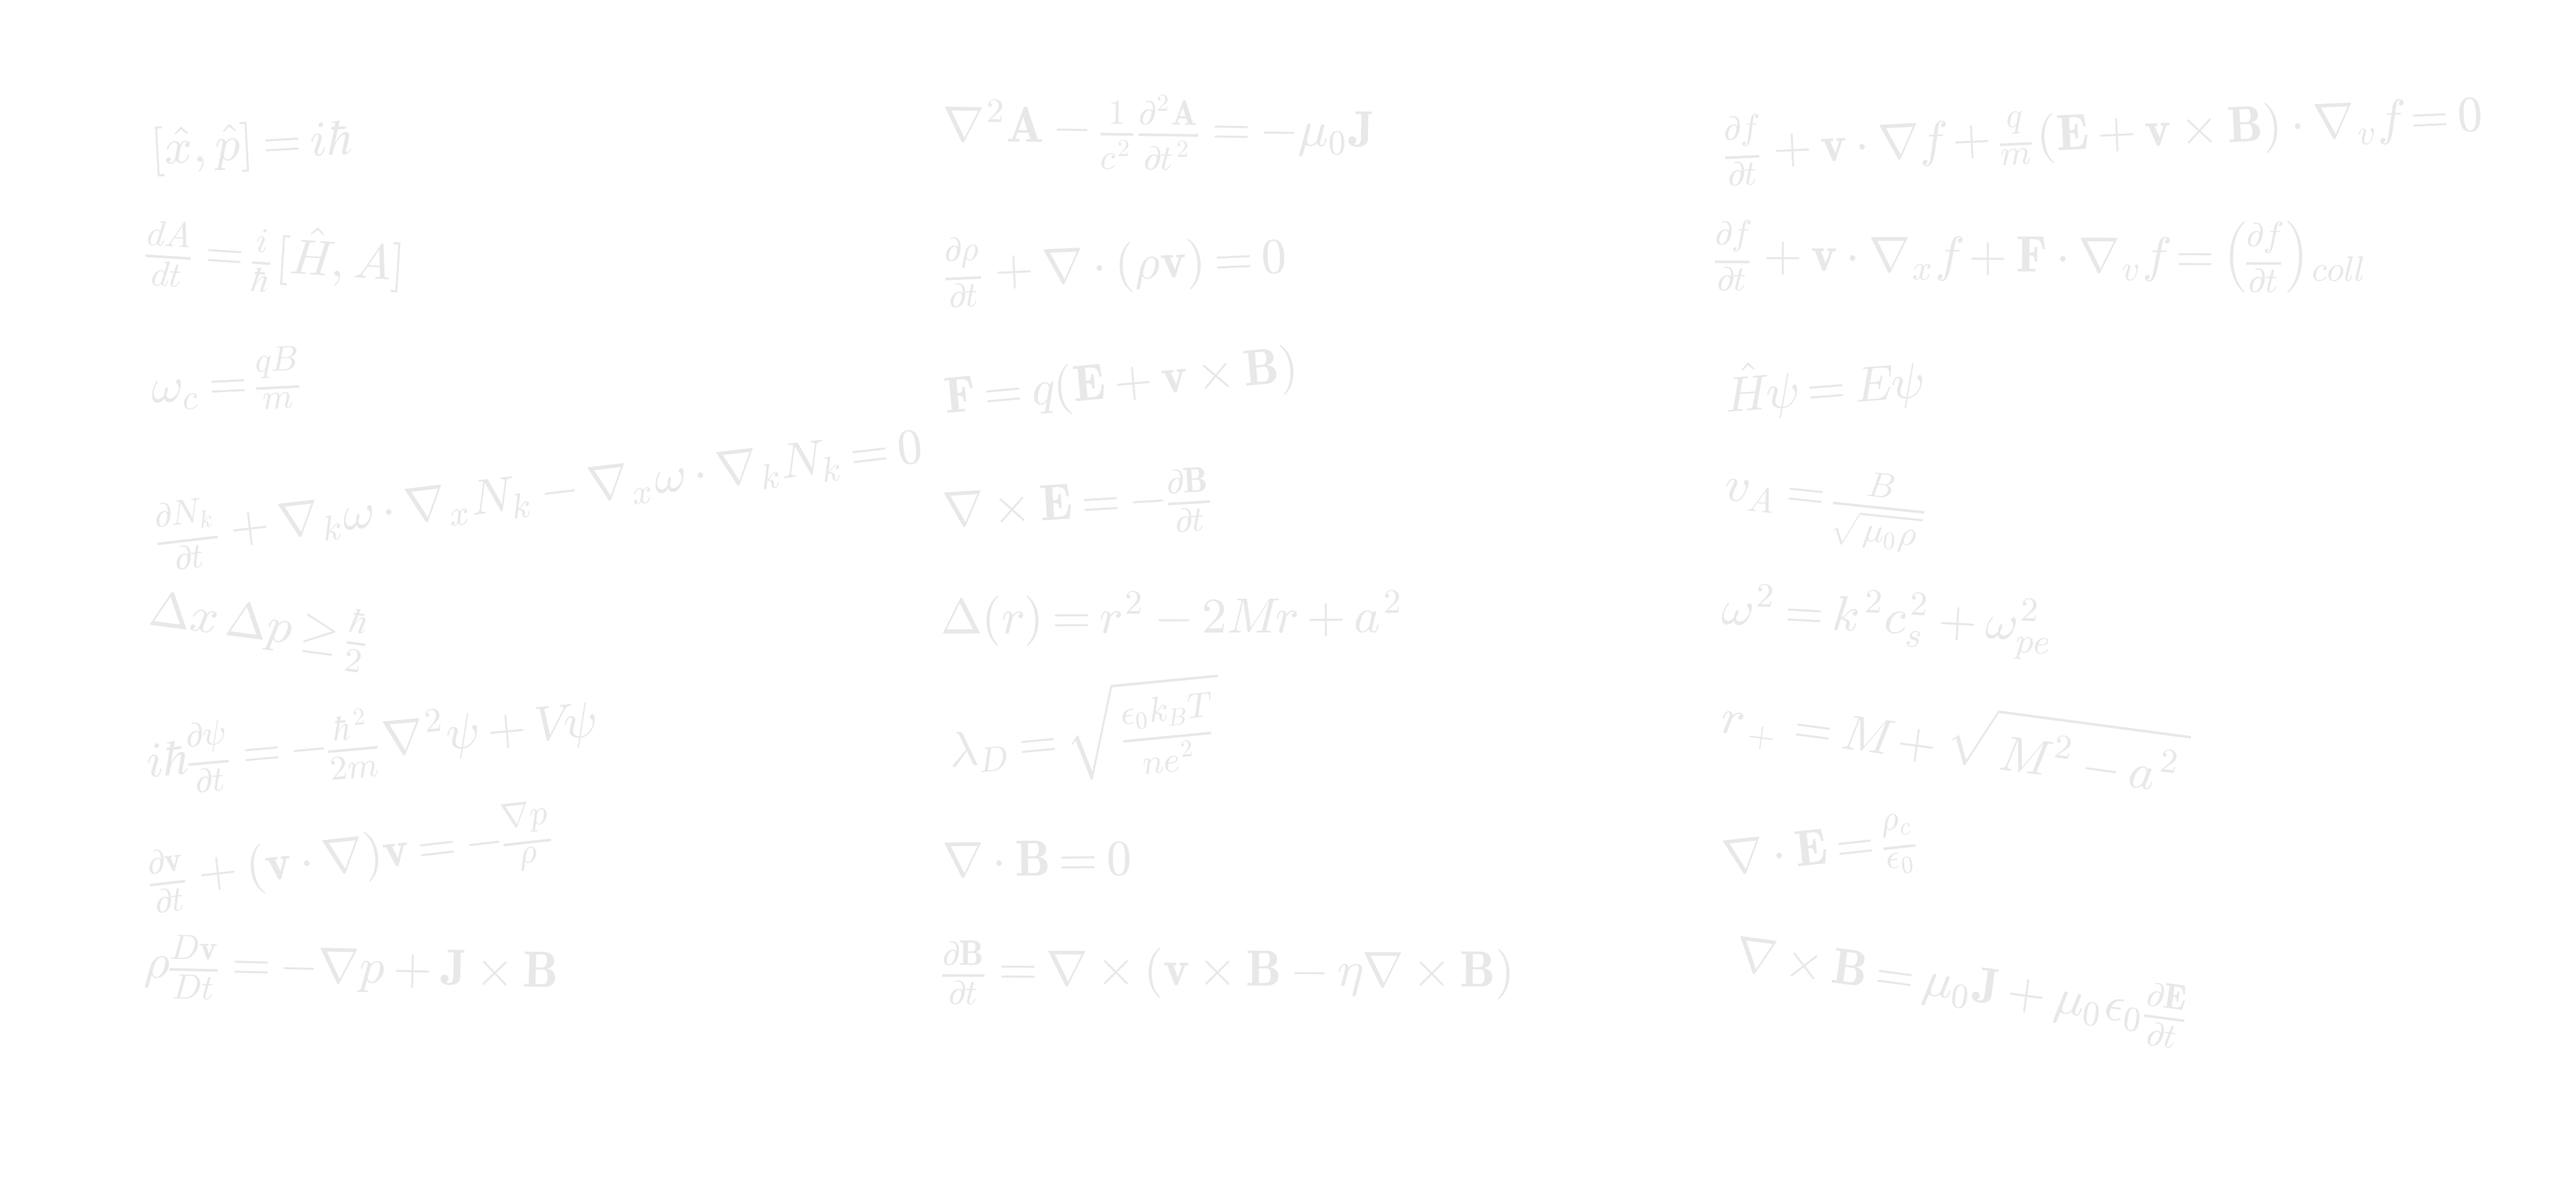
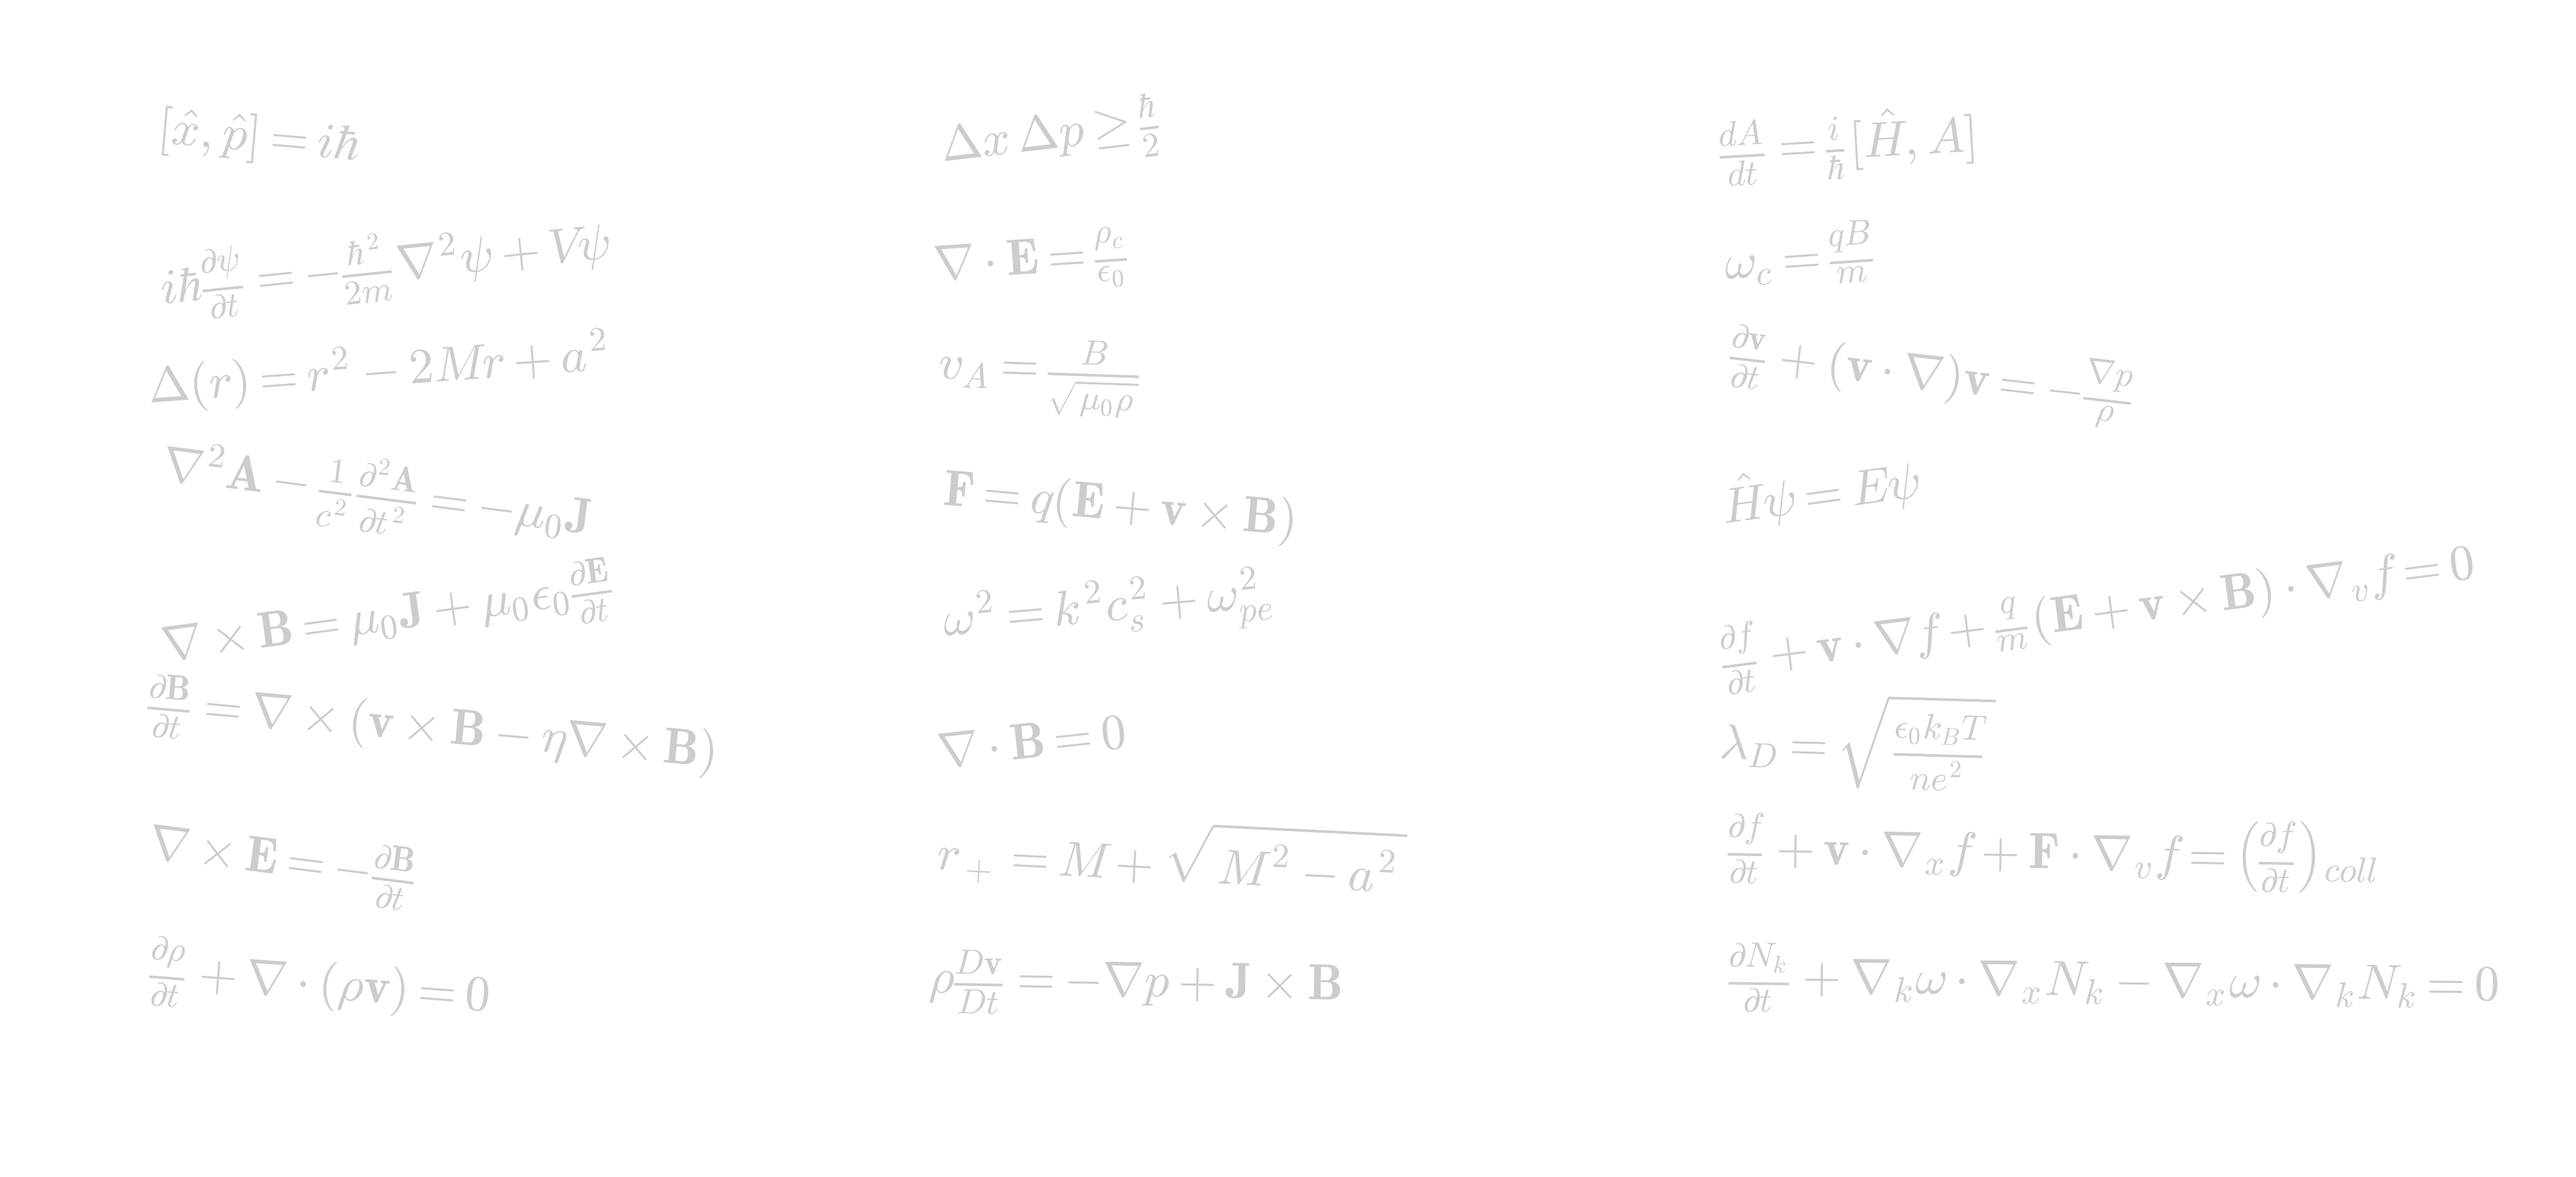
Revert equation background opacity back to 0.30

diff --git a/_sass/layout/_custom.scss b/_sass/layout/_custom.scss
@@ -110,7 +110,7 @@ h1, h2, h3, h4, h5, h6 {
    sparse even though nothing about the pattern changed. Scaling the tile
    up on larger screens keeps the apparent density roughly consistent. */
 body {
-  background-image: url("/images/equations_bg.png?v=7");
+  background-image: url("/images/equations_bg.png?v=8");
   background-repeat: repeat;
   background-size: 900px auto;
 }

diff --git a/equations/generate_bg.py b/equations/generate_bg.py
@@ -35,7 +35,7 @@ BASE_FONTSIZE = 46      # pt, before any per-equation shrink-to-fit
 MIN_FONTSIZE = 4        # pt, essentially no floor — guarantees a fit over readability
 DPI = 150
 COLOR = '#555555'
-ALPHA = 0.14
+ALPHA = 0.30
 MAX_ROTATION_DEG = 8    # kept modest so tilted text doesn't bleed into neighbors
 COLUMN_MARGIN_FRAC = 0.08  # fraction of column width reserved as side margin
 
